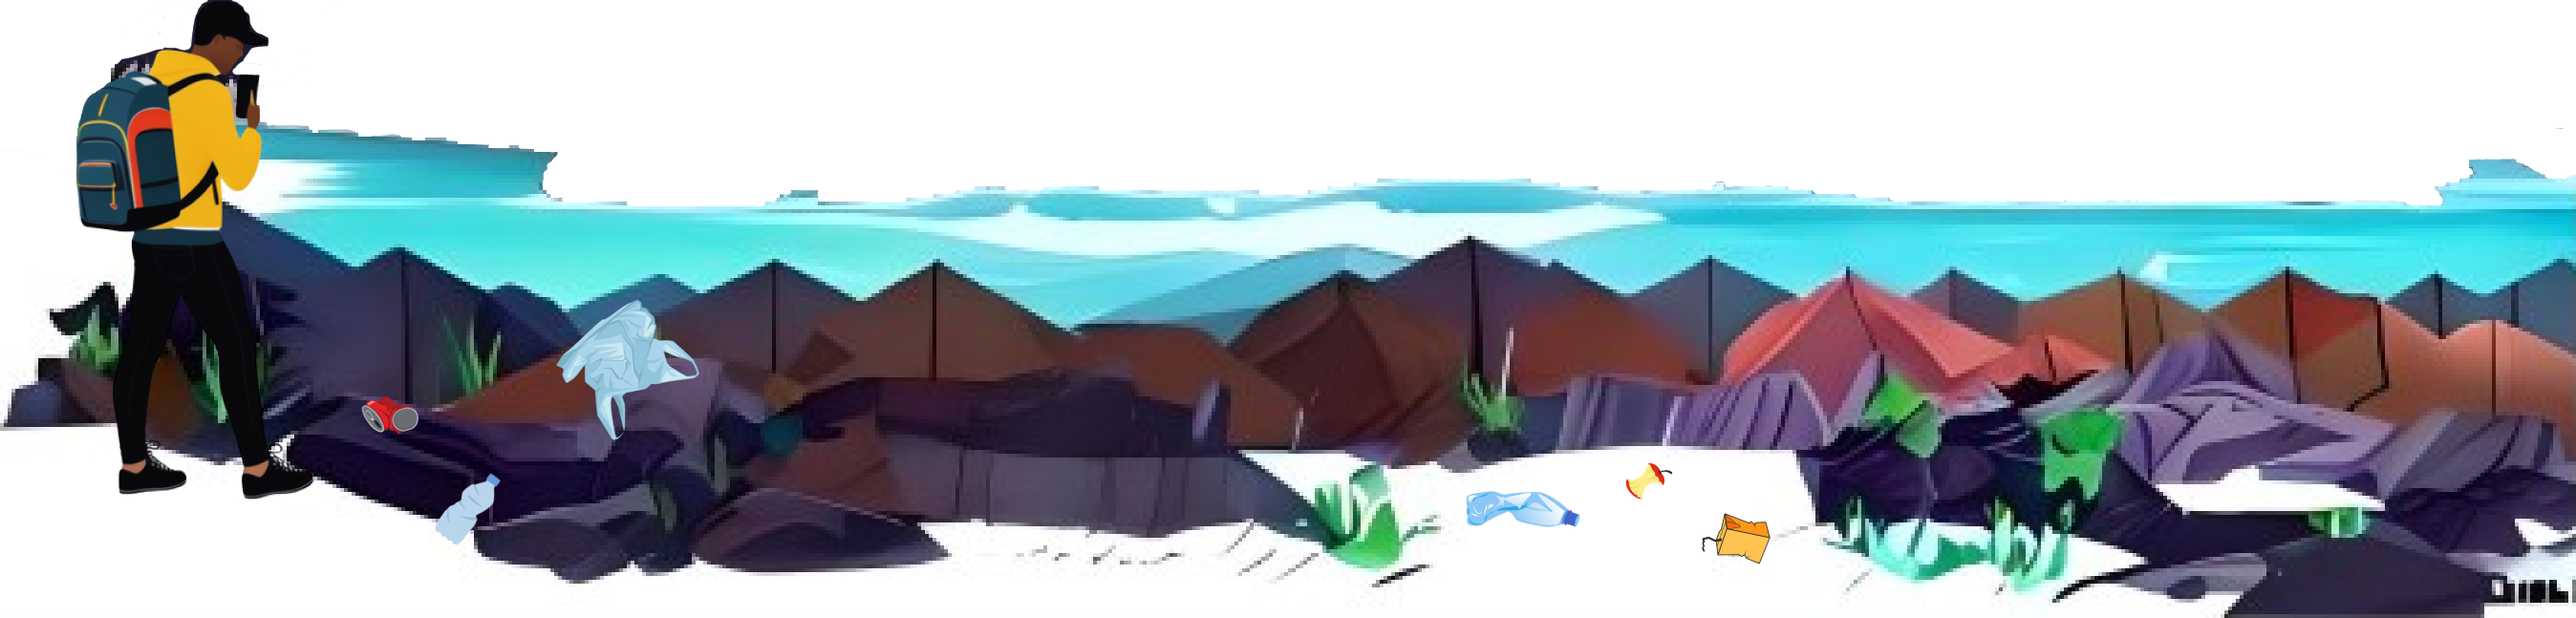
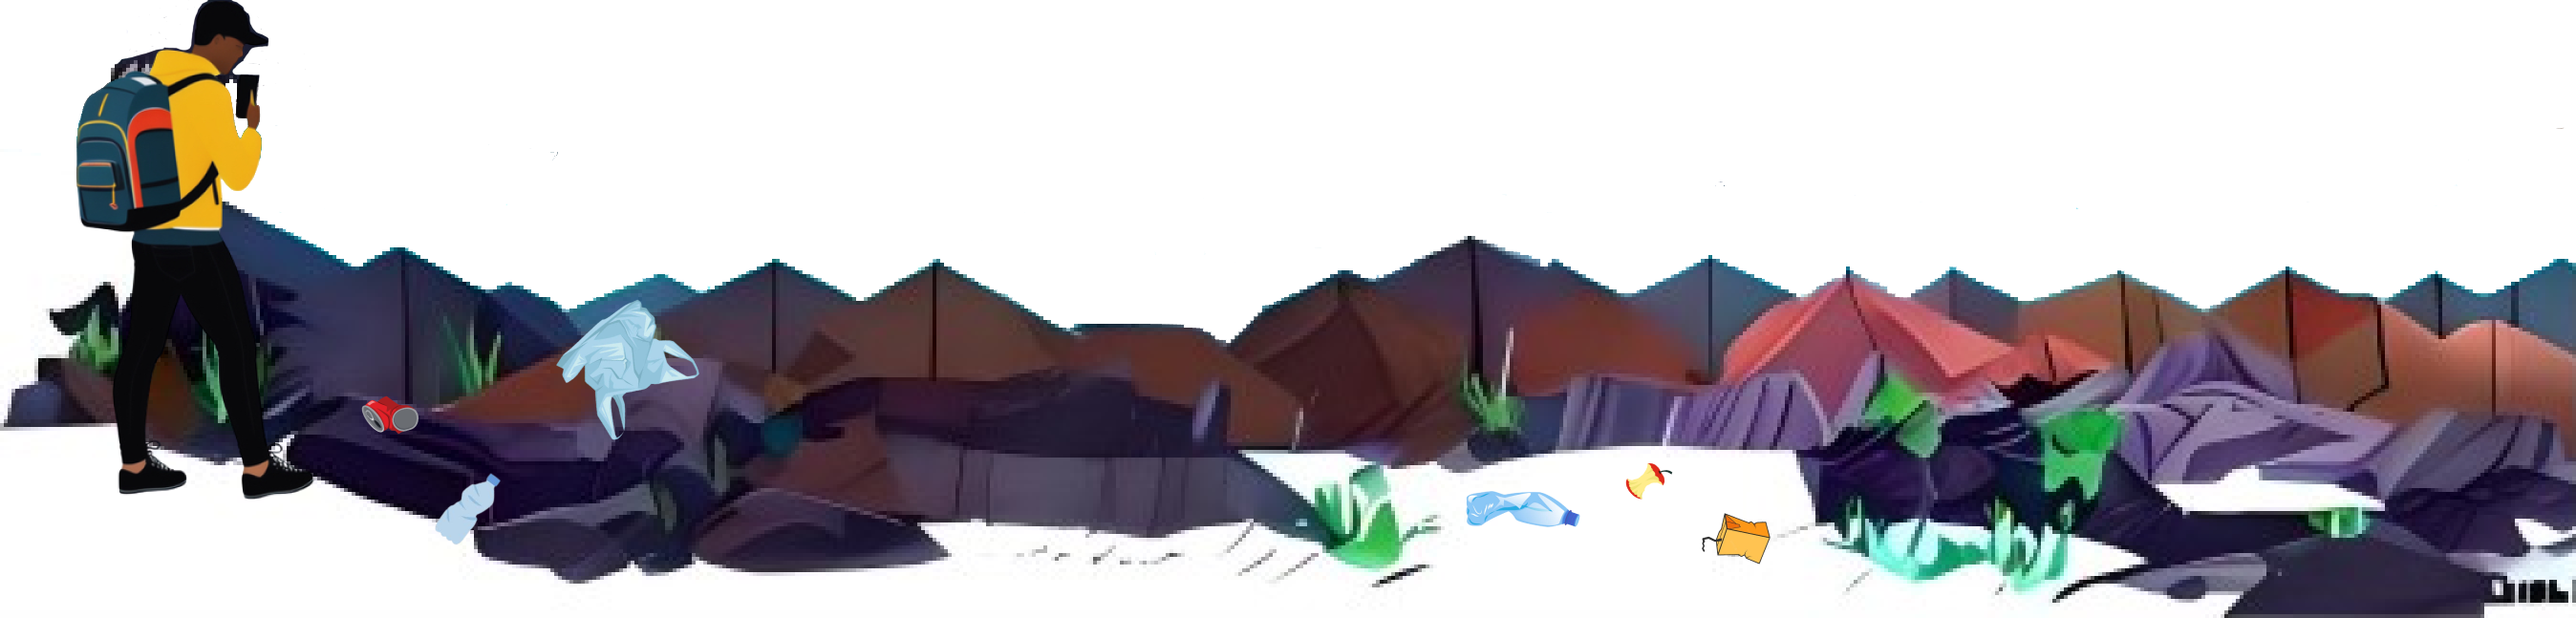
Modified rock layer

Changed region(s): [[0.0935, 0.1855, 1.0, 0.5564]]

diff --git a/src/styles/Home/PanelLanding.css b/src/styles/Home/PanelLanding.css
@@ -12,20 +12,21 @@
 }
 .SkyLayerContainer {
     height: 183px;
-    animation: AnimateOpacity 1s ease 0.1s forwards, AnimateLayer 1.1s ease-out 0.1s forwards;
+    /* animation: AnimateOpacity 1s ease 0.1s forwards, AnimateLayer 1s ease-out 0.1s forwards; */
+    opacity: 1;
     transform: translateY(-20px);
 }
 .BeachLayerContainer {
     top: 141px;
     height: 395px;
     animation: AnimateOpacity 1s ease 0.1s forwards, AnimateLayer 1.25s ease-out 0.1s forwards;
-    transform: translateY(75px);
+    transform: translateY(100px);
 }
 .RocksLayerContainer {
     top: 430px;
     height: 191px;
-    animation: AnimateOpacity 1s ease 0.1s forwards, AnimateLayer 1.4s cubic-bezier(.22,.52,.64,1) 0.1s forwards;
-    transform: translateY(100px);
+    animation: AnimateOpacity 1s ease 0.1s forwards, AnimateLayer 1s cubic-bezier(.22,.52,.64,1) 0.1s forwards;
+    transform: translateY(75px);
 }
 .SkyLayer, .BeachLayer, .RocksLayer {
     height: 100%;
